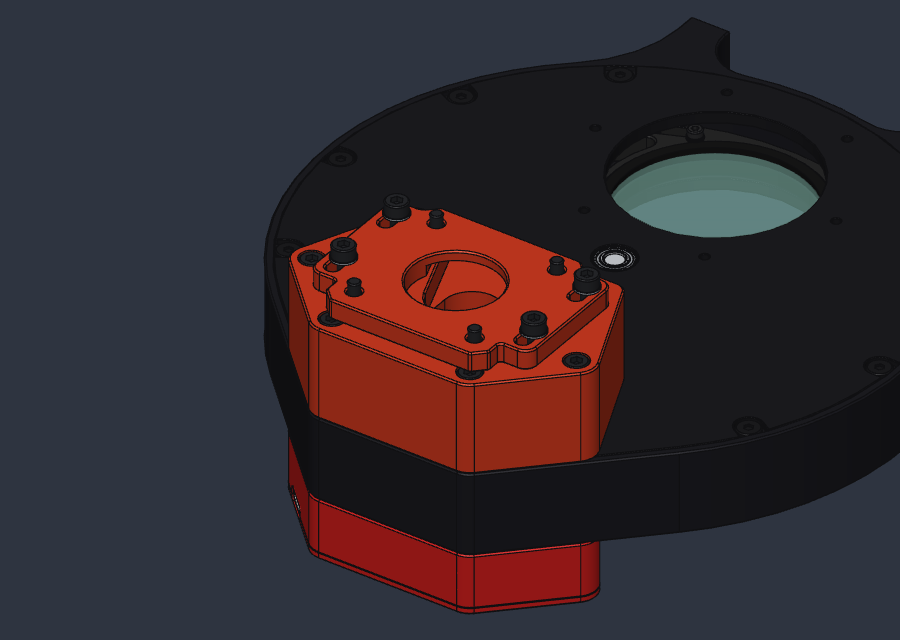
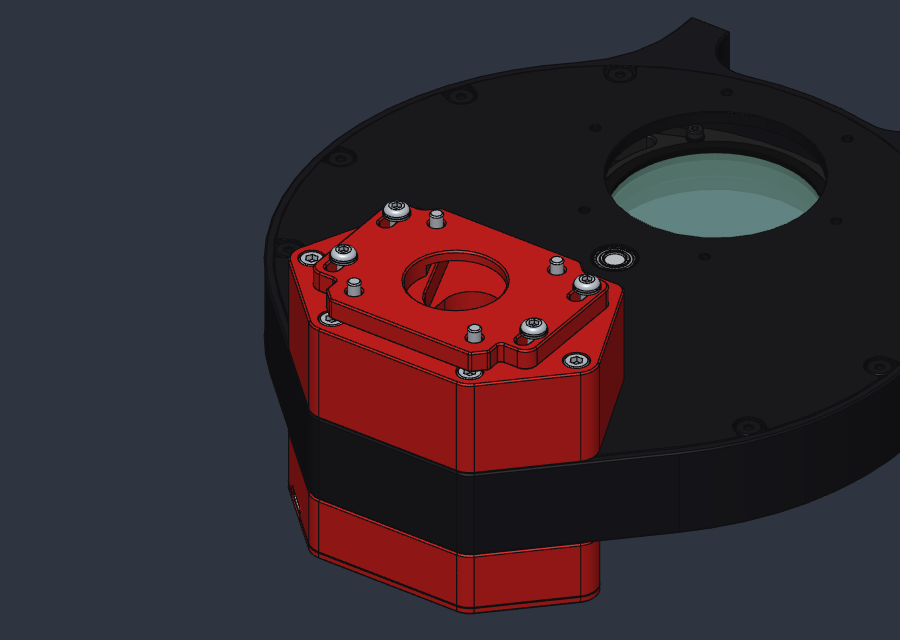
fix(cad): OpenWheel red, stainless screws, button heads in the plate slots
Housing and plate use OpenWheel's PETG red look (#c8201e, as the motor box). All
holder screws are stainless A2; the slot screws are ISO 7380 M3x16 button heads
with DIN 433 washers instead of DIN 912.

diff --git a/cad/triton/README.md b/cad/triton/README.md
@@ -56,13 +56,14 @@ the pulley, then pull the plate away from the axis and tighten the four M3 plate
 
 | Qty | Design | Part | Where | Fit |
 |---|---|---|---|---|
-| 4 | `ofw_triton_screw_din912_m3x30` | DIN 912 / ISO 4762 M3×30, black oxide 12.9 | housing counterbores (floor 3 mm below the top) → front plate → M3×15 standoffs | **replaces** the DIY front-plate screws M3×8 at those four holes; 7 mm in the standoff, tip 1.75 mm short of the camera-side ISO 7380 M3×16 in the same standoff |
-| 4 | `ofw_triton_screw_din912_m3x16` | DIN 912 M3×16, black oxide | plate slots → Ø2.8 pilots in the housing (self-tapping) | 10.5 mm in the pilot (15 deep) |
+| 4 | `ofw_triton_screw_din912_m3x30` | DIN 912 / ISO 4762 M3×30, stainless A2 | housing counterbores (floor 3 mm below the top) → front plate → M3×15 standoffs | **replaces** the DIY front-plate screws M3×8 at those four holes; 7 mm in the standoff, tip 1.75 mm short of the camera-side ISO 7380 M3×16 in the same standoff |
+| 4 | `ofw_triton_screw_iso7380_m3x16` | ISO 7380-1 M3×16 button head, stainless A2 | plate slots → Ø2.8 pilots in the housing (self-tapping) | 10.5 mm in the pilot (15 deep); head Ø5.7 clears the motor flange by 0.5 mm |
 | 4 | `ofw_triton_washer_din433_m3` | DIN 433 M3 washer 3.2/6 × 0.5, A2 | under the slot screws | Ø6, not DIN 125 (Ø7): Ø7 would touch the motor flange next to the slots |
-| 4 | `ofw_triton_screw_iso7380_m3x5` | ISO 7380-1 M3×5 button head, black oxide | motor screws from below, heads in the plate counterbores (seat on the 45° cone, 2.6 mm above the underside) | 2.6 mm into the motor; the 17HS08 drawing gives 2.5 mm min thread depth. If it bottoms, add a 0.3–0.5 mm shim washer under the head |
+| 4 | `ofw_triton_screw_iso7380_m3x5` | ISO 7380-1 M3×5 button head, stainless A2 | motor screws from below, heads in the plate counterbores (seat on the 45° cone, 2.6 mm above the underside) | 2.6 mm into the motor; the 17HS08 drawing gives 2.5 mm min thread depth. If it bottoms, add a 0.3–0.5 mm shim washer under the head |
 
 Dimensions: ISO 4762 / ISO 7380-1 / DIN 433 nominal values (head Ø, height, socket), threads cosmetic.
-The housing and plate are shown in red PETG (`#c8381f`, matched to the printed parts on the real build).
+The housing and plate use OpenWheel's own "PETG red" look (`#c8201e`, as the motor box and lid); screws and
+washers are stainless A2 (satin stainless look).
 
 ## Deviations from the legacy parts
 
